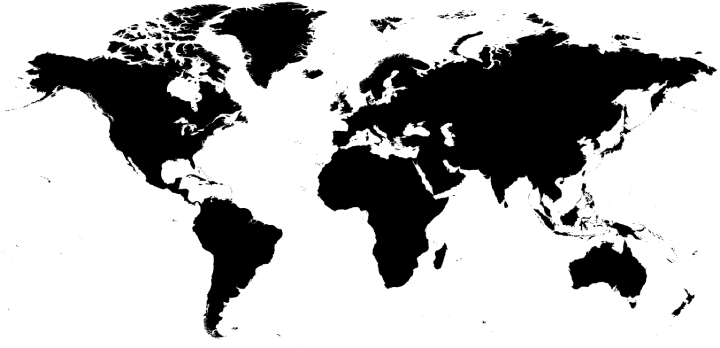
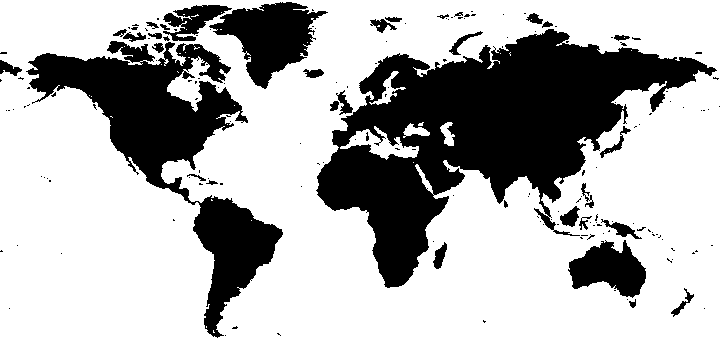
README : capture de l'interface, crédit Natural Earth, précision sur l'étalonnage
- Fond de carte world_map.png régénéré depuis Natural Earth 1:50 M (domaine public),
  même projection de Miller que l'interface ; script tools/gen_world_map.py
- Capture docs/appli-rotor.png affichée dans le README
- Étalonnage : « graduation 30 » de la zone de recouvrement (= 390°)

diff --git a/tools/gen_world_map.py b/tools/gen_world_map.py
@@ -1,0 +1,49 @@
+#!/usr/bin/env python3
+"""Génère scripts/world_map.png depuis les terres Natural Earth (domaine public).
+
+Projection de Miller avec les constantes de scripts/rotor_control.py (MAP_*), pour que
+la carte et les tracés de l'interface coïncident exactement. Terres en noir, mer en blanc.
+
+Données : ne_50m_land.geojson — https://www.naturalearthdata.com/downloads/50m-physical-vectors/
+(« Made with Natural Earth. Free vector and raster map data @ naturalearthdata.com »)
+
+Usage : python3 tools/gen_world_map.py ne_50m_land.geojson scripts/world_map.png
+"""
+import json, math, sys
+from PIL import Image, ImageDraw
+
+# Mêmes valeurs que scripts/rotor_control.py
+MAP_W, MAP_H = 720, 348
+MAP_X0, MAP_KX = 349.88, 1.9300
+MAP_Y0, MAP_KY = 219.11, 1.9063
+SUR = 4   # suréchantillonnage, pour des côtes propres après réduction
+
+
+def ll_to_xy(lon, lat):
+    lat = max(-89.9, min(89.9, lat))
+    ym = math.degrees(1.25 * math.log(math.tan(math.pi/4 + 0.4 * math.radians(lat))))
+    return (MAP_X0 + MAP_KX * lon) * SUR, (MAP_Y0 - MAP_KY * ym) * SUR
+
+
+def main(src, dst):
+    img = Image.new("L", (MAP_W * SUR, MAP_H * SUR), 255)
+    draw = ImageDraw.Draw(img)
+    for feat in json.load(open(src, encoding="utf-8"))["features"]:
+        geom = feat["geometry"]
+        polys = [geom["coordinates"]] if geom["type"] == "Polygon" else geom["coordinates"]
+        for poly in polys:
+            # La carte couvre ≈ 373° de longitude : chaque terre est aussi tracée à ±360°
+            for dlon in (-360, 0, 360):
+                for i, ring in enumerate(poly):          # 0 = contour, suivants = trous
+                    pts = [ll_to_xy(lon + dlon, lat) for lon, lat in ring]
+                    if len(pts) >= 3:
+                        draw.polygon(pts, fill=0 if i == 0 else 255)
+    img = img.resize((MAP_W, MAP_H), Image.LANCZOS).point(lambda v: 0 if v < 128 else 255)
+    img.convert("1").save(dst, optimize=True)
+    print(f"{dst} : {MAP_W} × {MAP_H} px")
+
+
+if __name__ == "__main__":
+    if len(sys.argv) != 3:
+        sys.exit(__doc__)
+    main(sys.argv[1], sys.argv[2])

diff --git a/README.md b/README.md
@@ -4,6 +4,8 @@ Pilotage du rotor d'azimut **Yaesu G-2800DXC** depuis un PC, avec un Arduino Nan
 
 Article de présentation : [hamanalyst.org — *titre de l'article à compléter*](https://hamanalyst.org/) <!-- TODO : lien définitif -->
 
+![Interface rotor_control.py : carte, cap vers la cible, panneaux de commande](docs/appli-rotor.png)
+
 > ⚠ Montage amateur, testé sur un seul rotor (G-2800DXC). Lisez la section **Sécurité** avant le premier essai.
 
 ## Contenu du dépôt
@@ -12,7 +14,7 @@ Article de présentation : [hamanalyst.org — *titre de l'article à compléter
 |---|---|
 | `firmware/rotor_k3ng_ON5AM/rotor_k3ng_ON5AM.ino` | Firmware du Nano (GS-232A, sécurités, étalonnage) |
 | `scripts/rotor_control.py` | Interface graphique (Tkinter) |
-| `scripts/world_map.png` | Fond de carte de l'interface (projection de Miller) |
+| `scripts/world_map.png` | Fond de carte de l'interface (projection de Miller, d'après Natural Earth) |
 | `scripts/test_comm.py` | Test de communication (bannière + 15 lectures d'azimut) |
 | `scripts/calib_read.py` | Relevé d'un point d'étalonnage (20 lectures brutes de l'ADC) |
 | `scripts/relay_test.py` | Test des relais |
@@ -22,6 +24,8 @@ Article de présentation : [hamanalyst.org — *titre de l'article à compléter
 | `docs/schema_rotor_g2800.svg` / `.png` | Schéma électrique |
 | `docs/plan_plaque_rotor_g2800.svg` | Plan de pose sur plaque à pastilles |
 | `docs/guide_plaque_rotor_g2800.md` | Guide de montage de la plaque, liste des fils, contrôles |
+| `tools/gen_world_map.py` | Régénère `world_map.png` depuis les terres Natural Earth |
+| `docs/appli-rotor.png` | Capture de l'interface |
 | `rotor_config.example.ini` | Modèle de configuration locale |
 
 ## Matériel
@@ -135,7 +139,7 @@ Dans l'interface : **GO** envoie `M`, les boutons **◄ CCW / ■ / CW ►** env
 
 La conversion ADC → degrés est une table de 6 points écrite dans le firmware (`CAL_ADC` / `CAL_DEG`), avec interpolation linéaire entre les points.
 
-1. Placer le rotor **avec les boutons de la face avant** sur chaque repère de l'aiguille : **butée 0°, 90°, 180°, 270°, 360°, puis 30 du recouvrement (= 390°)**.
+1. Placer le rotor **avec les boutons de la face avant** sur chaque repère de l'aiguille : **butée 0°, 90°, 180°, 270°, 360°, puis la graduation « 30 » de la zone de recouvrement (= 390°)**.
 2. À chaque point, l'aiguille arrêtée : `python3 scripts/calib_read.py "180 (aiguille 180)"` (20 lectures de `\R`, moyenne enregistrée dans `scripts/calib_releves.txt`).
 3. Reporter les moyennes arrondies dans le firmware, par exemple :
    ```c
@@ -160,6 +164,10 @@ L'étalonnage dépend du 5 V du Nano. **À refaire après tout changement** de N
   - **timeout de 300 s** sans nouvelle commande de mouvement → arrêt. Une course complète 0 → 360° dure environ 150 à 180 s en commande externe ;
   - aucun relais collé au démarrage du Nano.
 - Les **butées mécaniques** du rotor restent la dernière protection : la limite logicielle dépend d'une lecture d'azimut correcte. Un boîtier éteint ou un fil d'azimut débranché donne une lecture de 0°.
+
+## Crédits
+
+Fond de carte : *Made with Natural Earth. Free vector and raster map data @ [naturalearthdata.com](https://www.naturalearthdata.com/)* (domaine public). Terres 1:50 M, projection de Miller, générées par `tools/gen_world_map.py`.
 
 ## Licence
 
